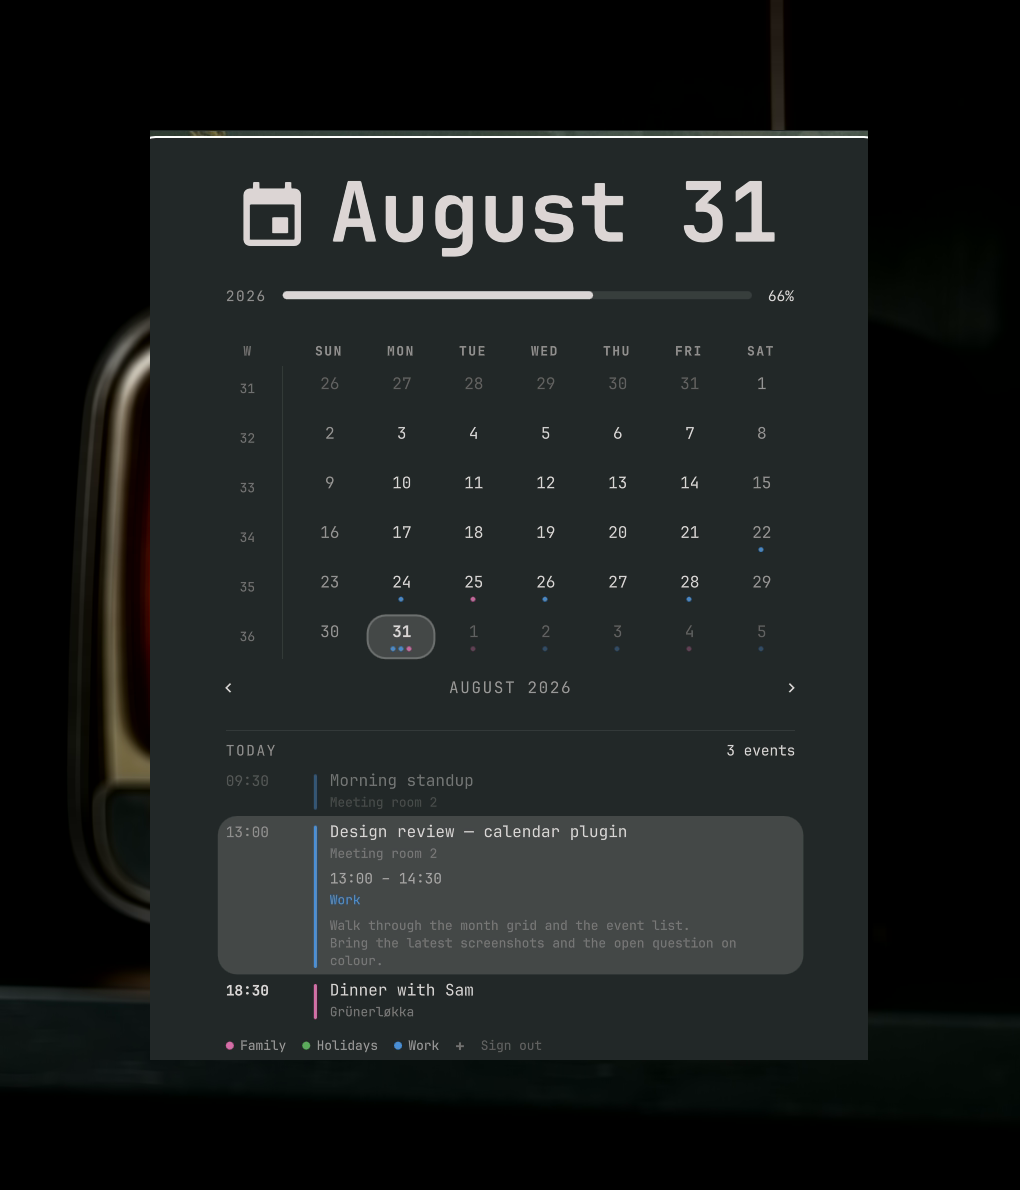
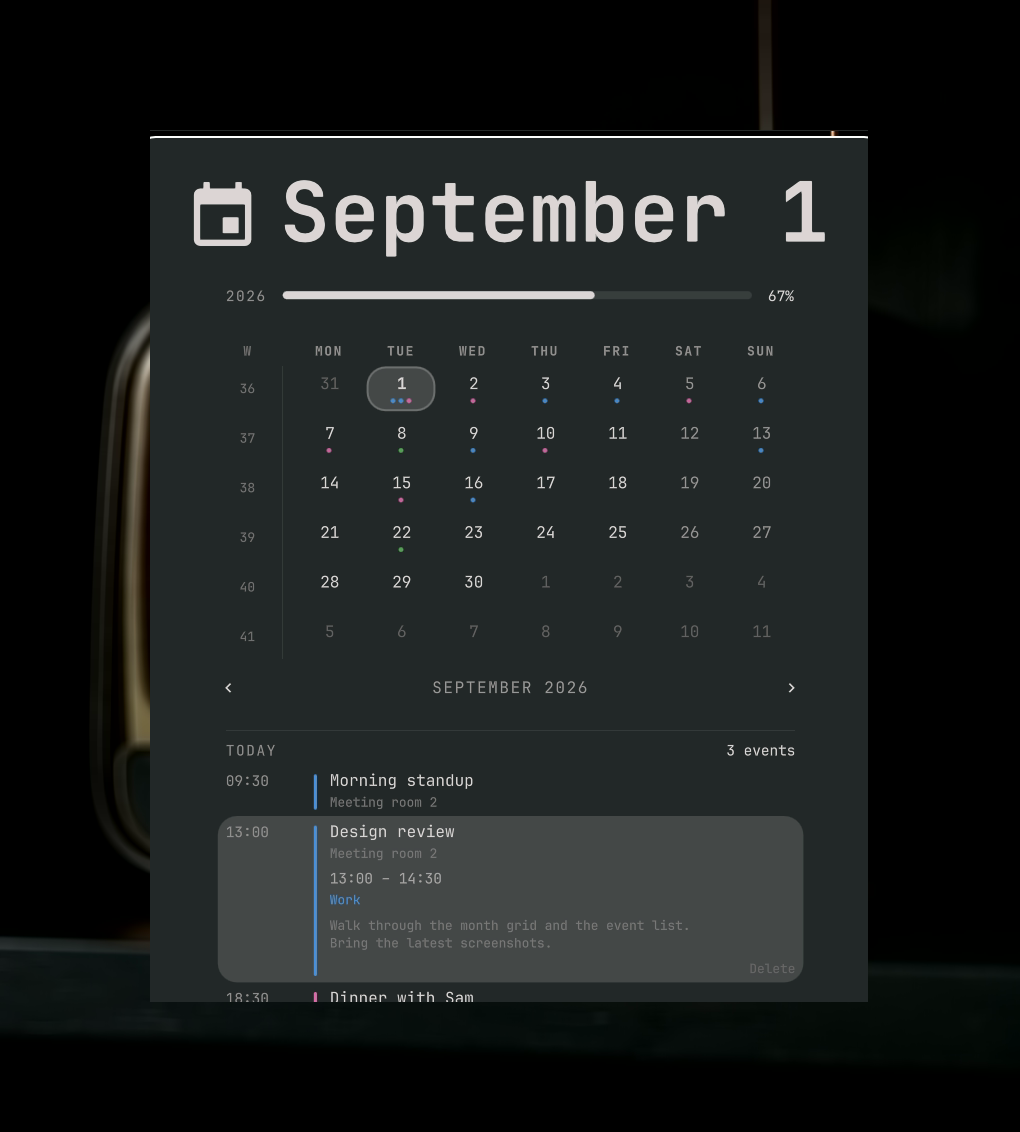
Retake the screenshots, and add one for the event form
The old set predates the year meter, the account action moving right, deleting
an event, and the whole of creating one, so it showed a plugin that no longer
exists. A fourth shot covers the event form, which is the largest thing the
listing had no picture of.

Invented calendars and events throughout, as before.

diff --git a/README.md b/README.md
@@ -147,6 +147,8 @@ right-click, the year bar, the timezone picker, memento mori.
 you are looking at is the day it lands on, so the form asks only for what the
 calendar cannot already tell it.
 
+![Adding an event](docs/new-event.png)
+
 Times are typed rather than picked, and read loosely: `9`, `0900`, `09.30` and
 `21:45` all work. An end at or before the start runs into the next day, marked
 `+1` beside the field rather than decided quietly.
